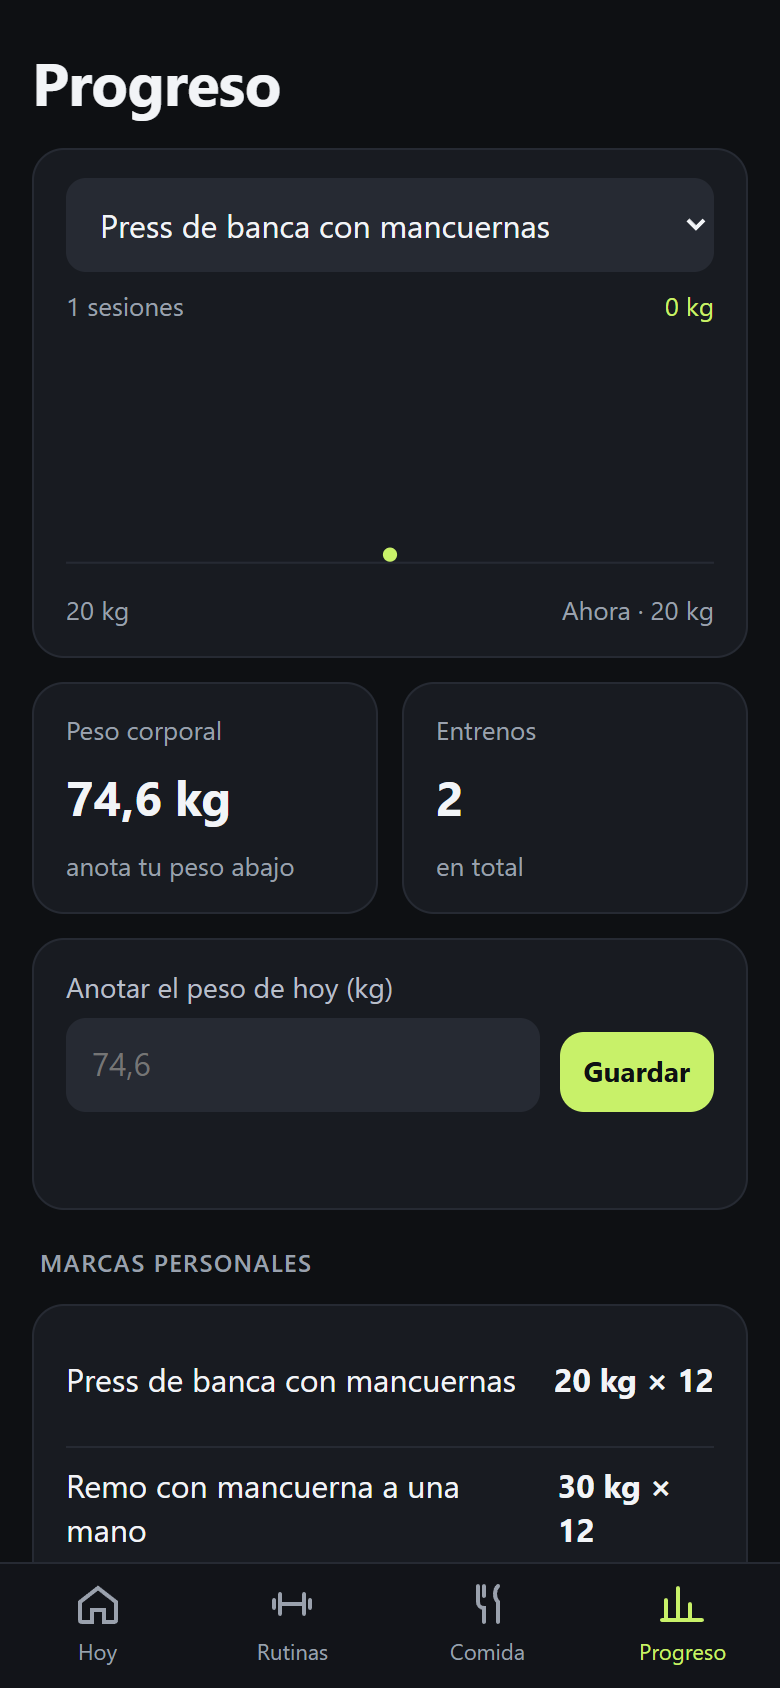
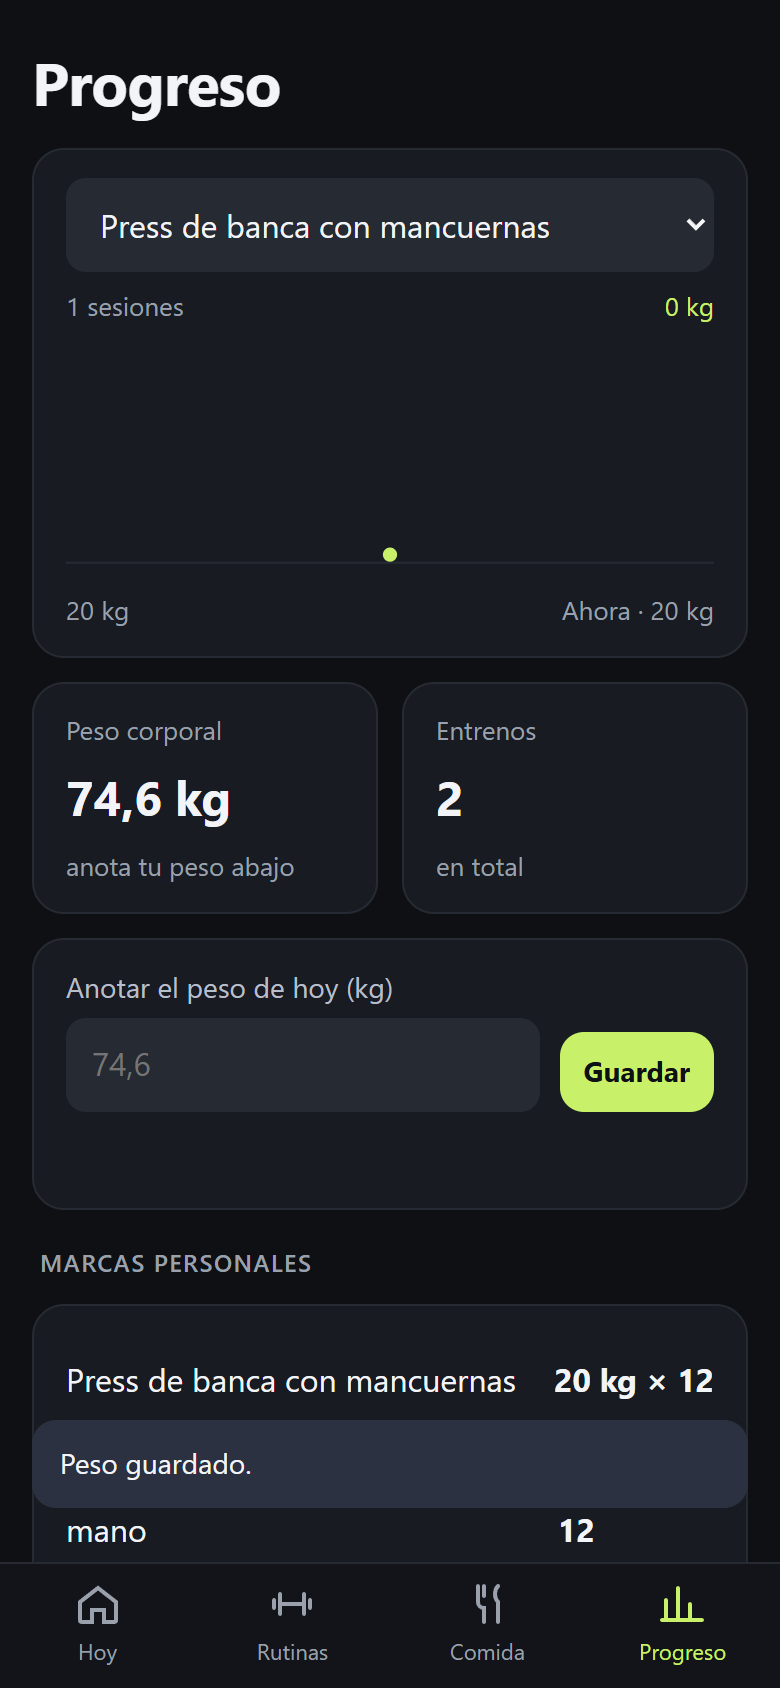
📝 docs: README y prueba contra la app publicada

Changed region(s): [[0.0308, 0.8318, 0.9538, 0.8934]]

diff --git a/README.md b/README.md
@@ -1,0 +1,26 @@
+# Gym · App personal de entrenamiento
+
+App web instalable para iPhone: rutinas, entrenos, alimentación y progreso. Funciona sin internet y guarda los datos
+solo en el teléfono (con copia de seguridad en Ajustes).
+
+- Dirección: https://mariolhrod.github.io/gymapp/
+- Especificación y plan: `docs/specs/app-gym.md`, `docs/plans/app-gym.md`.
+- Fotos de ejercicios: free-exercise-db, dominio público (`app/img/ejercicios/LICENCIA-FOTOS.md`).
+
+## Probar
+```
+node --test "tests/*.test.mjs"        # reglas y datos
+node tools/prueba-navegador.mjs        # recorrido completo en Edge (390 × 844), capturas en docs/evidencia/
+node tools/servidor.mjs                # abrir la app en http://127.0.0.1:8765/
+```
+
+## Publicar una versión nueva
+```
+node tools/generar-sw.mjs              # actualiza la lista para usar sin internet
+git subtree split --prefix app -b gh-pages-nueva
+git push origin gh-pages-nueva:gh-pages --force
+git branch -D gh-pages-nueva
+```
+El iPhone descarga la versión nueva la próxima vez que abre la app con conexión.
+
+Esta app es una ayuda personal; no es consejo médico ni nutricional.
